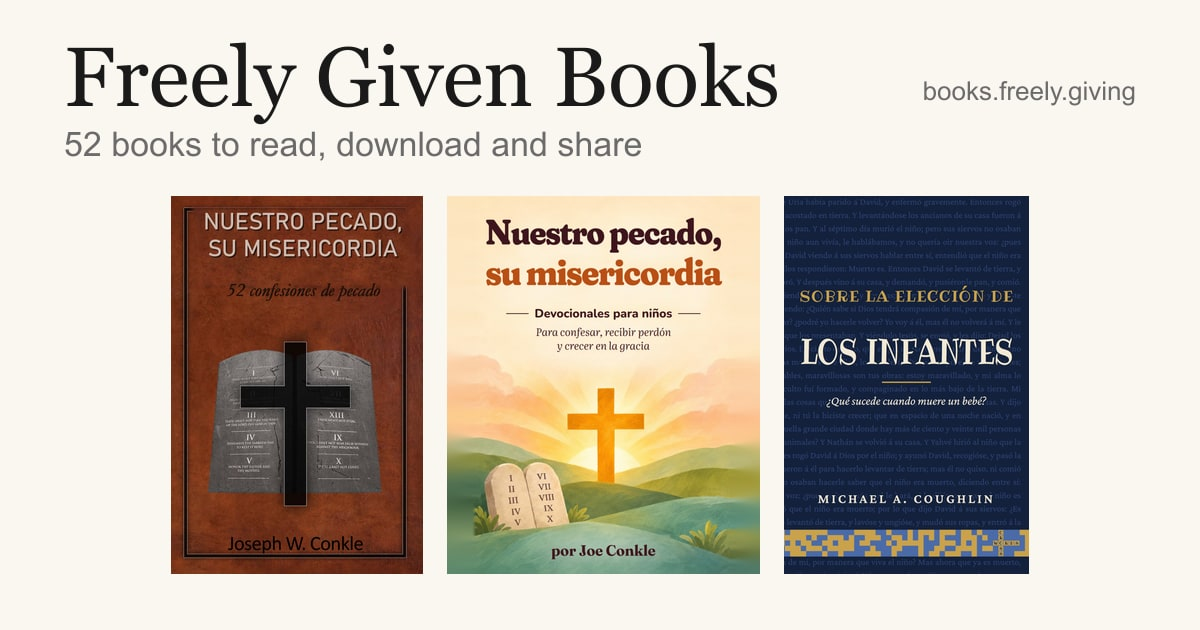
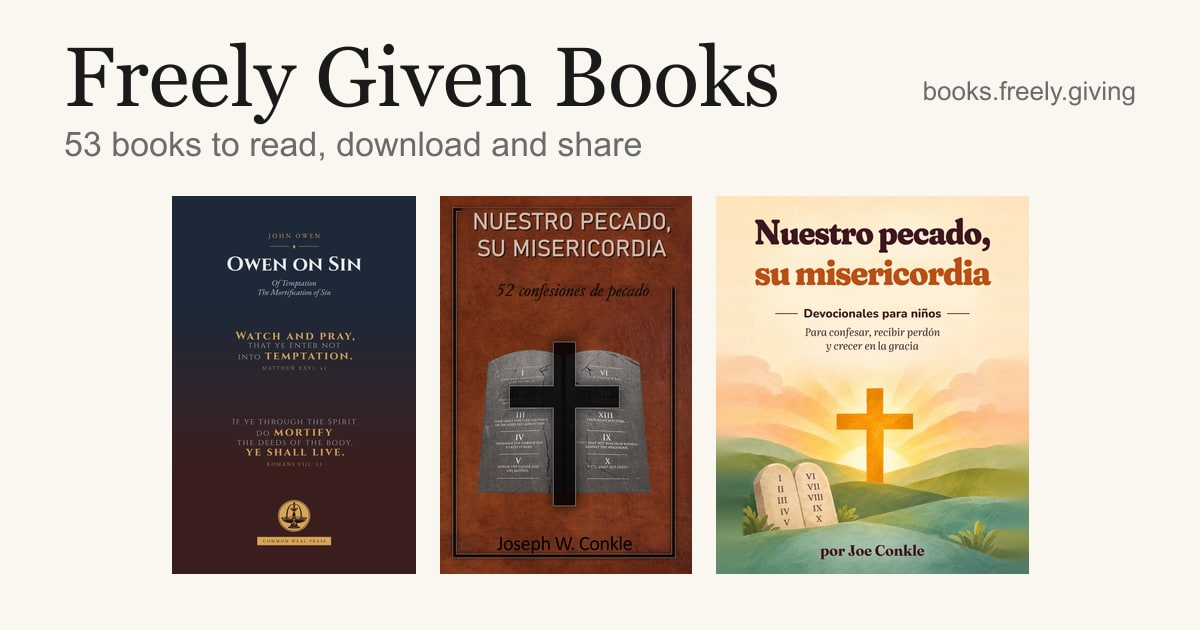
Add Owen on Sin; sync allows PDF-only editions and publishes /CourtneyHicks.md
Owen on Sin is Of Temptation and The Mortification of Sin in one paperback, so its
release has no EPUB or Read Online (each book has its own page). The sync now takes
EPUB and Read Online as optional, and every real sync writes its report for Courtney
to public/CourtneyHicks.md so his tools can read it at books.freely.giving/CourtneyHicks.md.

diff --git a/scripts/sync-freely-given.js b/scripts/sync-freely-given.js
@@ -137,8 +137,11 @@ function personSlug(author) {
  * in the report to send back, not just the console. */
 class EditorError extends Error {}
 
-/** Where the report to send back to the editor is written (untracked). */
+/** The sync report for the editor. A real sync publishes it on the site as /CourtneyHicks.md, where Courtney
+ * (or his tools) can read it at any time; a dry run writes only the local copy in _downloads (untracked). */
 const REPORT = join(ROOT, "_downloads/freely-given/for-courtney.md");
+const PUBLISHED = join(ROOT, "public/CourtneyHicks.md");
+const SITE_URL = "https://books.freely.giving";
 
 const isPdf = (b) => (b.subarray(0, 5).toString() === "%PDF-" ? null : "not a PDF file");
 const isZip = (b) => (b[0] === 0x50 && b[1] === 0x4b ? null : "not a valid EPUB (ZIP) file");
@@ -200,47 +203,61 @@ function parseSite(buf) {
   return site;
 }
 
-/** The file to send back to the editor, or null (and no stale file) when there is nothing to say. */
-function editorReport(tag, report, general = []) {
+/** The sync report for the editor, written every run (published on the site on a real sync). */
+function editorReport(tag, report, general = [], { publish = false } = {}) {
   const bad = report.filter((r) => r.problems.length);
   const warned = report.filter((r) => !r.problems.length && r.warnings.length);
   const meta = report.filter((r) => !r.problems.length && r.missingMeta?.length);
-  if (!general.length && !bad.length && !warned.length && !meta.length) {
-    if (existsSync(REPORT)) unlinkSync(REPORT);
-    return null;
-  }
+  const today = new Date().toLocaleDateString("en-CA");
   const head = (r) => `### ${r.slug} (${r.title ?? "no title"}${r.version ? `, ${r.version}` : ""})`;
+  const status = (r) =>
+    r.problems.length ? (r.isNew ? "not imported (see below)" : "not updated (see below); the site keeps its previous version")
+    : r.hidden ? "imported, hidden until the site owner finishes it"
+    : "on the site";
+  const live = report.filter((r) => !r.problems.length && !r.hidden).length;
   const L = [
-    `# books.freely.giving: sync report for release ${tag}`,
+    "# Sync report for Courtney Hicks",
     "",
-    "The site's sync script (`npm run sync:fgb`) read this release and found the items below.",
-    "Nothing needs to change on the site's side: fix these in the release, publish a new one,",
-    "and the next sync picks it up. Editions not listed here synced fine.",
+    `This file is for Courtney Hicks and his tools. ${SITE_URL} rewrites it each time it syncs a`,
+    "Freely Given Books release from https://github.com/freely-given-books/books. Read it after",
+    "publishing a release to see what the site took, and anything to fix in the next release.",
+    "Nothing in it needs a change on the site's side: fix things in the release and publish a new",
+    "one, and the next sync picks it up.",
+    "",
+    `- Last sync: ${today}`,
+    `- Release: ${tag}`,
+    `- Editions in the release: ${report.length}; on the site: ${live}; hidden: ${report.filter((r) => !r.problems.length && r.hidden).length}; ` +
+      `not imported or not updated: ${bad.length}`,
   ];
   if (general.length) L.push("", "## The release itself", "", ...general.map((g) => `- ${g}`));
-  if (bad.length) {
-    L.push("", "## Not imported (fix and re-release)", "");
-    for (const r of bad) L.push(head(r), ...r.problems.map((p) => `- ${p}`), "");
+  if (report.length) {
+    L.push("", "## Editions", "", "| Edition | Version | Status | Page |", "| --- | --- | --- | --- |",
+      ...report.map((r) => `| ${r.slug} | ${r.version ?? ""} | ${status(r)} | ${r.page && !r.problems.length && !r.hidden ? r.page : ""} |`));
   }
-  if (warned.length) {
-    L.push("", "## Imported, but please check", "");
-    for (const r of warned) L.push(head(r), ...r.warnings.map((p) => `- ${p}`), "");
-  }
+  L.push("", "## Not imported (fix and re-release)", "");
+  if (bad.length) for (const r of bad) L.push(head(r), ...r.problems.map((p) => `- ${p}`), "");
+  else L.push("None.");
+  L.push("", "## Imported, but please check", "");
+  if (warned.length) for (const r of warned) L.push(head(r), ...r.warnings.map((p) => `- ${p}`), "");
+  else L.push("None.");
   if (meta.length) {
-    L.push("", "## Requests that make the next sync hands-free", "",
+    L.push("", "## Optional: details that save the site owner work", "",
       "New books arrive hidden until the site owner fills in a year, description and tags by hand.",
       "If `site.json` carries them on each book (`\"year\": 1658`, a reader-facing `\"description\"`",
       "of a sentence or two, not the edition summary, and `\"tags\": [\"puritan\"]`) the sync uses",
       "them and nobody has to do it. Missing for:", "",
-      ...meta.map((r) => `- ${r.slug}: ${r.missingMeta.join(", ")}${r.noLulu ? "; lulu (only if a print edition exists)" : ""}`), "");
+      ...meta.map((r) => `- ${r.slug}: ${r.missingMeta.join(", ")}${r.noLulu ? "; lulu (only if a print edition exists)" : ""}`));
   }
   L.push("", "## What the sync needs, per edition", "",
-    "`slug`, `pages`, and `files` with `pdf`, `epub`, `cover` (the Lulu cover PDF), `front` (the front",
-    "cover PNG) and `reader`, plus `compare` for What's New?. Per book: `title`, `author`. Every file",
-    "named must be attached to the release and listed in `SHA256SUMS`.");
+    "`slug`, `pages`, and `files` with `pdf`, `cover` (the Lulu cover PDF) and `front` (the front cover",
+    "PNG). `epub` and `reader` (Read Online) are optional: an edition without them (a combined paperback,",
+    "say) goes up with only the buttons it has. `compare` gives What's New?. Per book: `title`,",
+    "`author`. Every file named must be attached to the release and listed in `SHA256SUMS`.");
+  const text = L.join("\n") + "\n";
   mkdirSync(dirname(REPORT), { recursive: true });
-  writeFileSync(REPORT, L.join("\n") + "\n");
-  return REPORT;
+  writeFileSync(REPORT, text);
+  if (publish) writeFileSync(PUBLISHED, text);
+  return { file: publish ? PUBLISHED : REPORT, hasIssues: Boolean(general.length || bad.length || warned.length) };
 }
 
 /** Back cover and spine, cut from the print-ready wrap cover by scripts/cut-cover.py
@@ -336,9 +353,14 @@ async function main() {
         return null;
       }
     };
-    const pdf = await need("pdf", isPdf), epub = await need("epub", isZip),
+    // PDF, print cover and front cover are required. EPUB and Read Online are optional (owner, 2026-11-17):
+    // an edition without them goes up with the buttons it has, and the report asks Courtney for the rest.
+    const pdf = await need("pdf", isPdf), epub = await need("epub", isZip, true),
       cover = await need("cover", isPdf), front = await need("front"),
-      reader = await need("reader", isHtml), compare = await need("compare", isHtml, true);
+      reader = await need("reader", isHtml, true), compare = await need("compare", isHtml, true);
+    // Not sent to Courtney: he leaves them out on purpose (e.g. a two-in-one paperback whose books have their own pages).
+    if (!f.epub) r.kept.push("no EPUB in this release, so no eBook button");
+    if (!f.reader) r.kept.push("no Read Online page in this release, so no Read Online button");
     let jpg = null;
     if (front) {
       try {
@@ -354,11 +376,13 @@ async function main() {
 
     const out = {};
     out[`${slug}.pdf`] = pdf;
-    out[`${slug}.epub`] = epub;
+    if (epub) out[`${slug}.epub`] = epub;
     out["print-ready.zip"] = storedZip([{ name: f.pdf, data: pdf }, { name: f.cover, data: cover }]);
-    const names = { [f.pdf]: r2(`${slug}.pdf`), [f.epub]: r2(`${slug}.epub`), [f.reader]: `${slug}.html` };
+    const names = { [f.pdf]: r2(`${slug}.pdf`) };
+    if (epub) names[f.epub] = r2(`${slug}.epub`);
+    if (reader) names[f.reader] = `${slug}.html`;
     if (compare) names[f.compare] = `${slug}-whats-new.html`;
-    out[`${slug}.html`] = Buffer.from(relink(reader.toString(), names));
+    if (reader) out[`${slug}.html`] = Buffer.from(relink(reader.toString(), names));
     if (compare) out[`${slug}-whats-new.html`] = Buffer.from(relink(compare.toString(), names));
     out["cover.jpg"] = jpg;
     if (cut.back) { out["back-cover.jpg"] = cut.back; out["spine.jpg"] = cut.spine; }
@@ -422,10 +446,10 @@ async function main() {
     }
 
     const want = {
-      htmlBook: button("htmlBook", "Read Online", "Read", page(`${slug}.html`)),
+      htmlBook: reader && button("htmlBook", "Read Online", "Read", page(`${slug}.html`)),
       whatsNew: compare && button("whatsNew", "What's New?", "Compare", page(`${slug}-whats-new.html`)),
       printBook: ed.lulu && button("printBook", "Book", "Lulu", ed.lulu),
-      eBook: button("eBook", "eBook", "Download", r2(`${slug}.epub`)),
+      eBook: epub && button("eBook", "eBook", "Download", r2(`${slug}.epub`)),
       pdfBook: button("pdfBook", "PDF", "Download", r2(`${slug}.pdf`)),
       printReady: button("printReady", "Print Ready", "Download", r2("print-ready.zip")),
     };
@@ -442,6 +466,9 @@ async function main() {
       kept.push(`Read Online stays at ${url(had("htmlBook"))} (<slug>.html is staged, not linked)`);
     }
     if (had("printBook")) want.printBook = had("printBook");
+    // A release missing a file the site already offers keeps the site's existing button.
+    if (!epub && had("eBook")) want.eBook = had("eBook");
+    if (!reader && had("htmlBook")) want.htmlBook = had("htmlBook");
     b.set("mediaTypes", doc.createNode([...BUTTONS.map((t) => want[t]).filter(Boolean), ...others]));
     const yamlOut = doc.toString({ lineWidth: 0 });
     const yamlChanged = isNew || yamlOut !== readFileSync(yamlPath, "utf8");
@@ -456,7 +483,11 @@ async function main() {
       };
     }
     if (toR2.length) upload.push(slug);
+    const creditList = b.get("credits")?.toJSON?.() ?? [];
+    const urlPerson = creditList.find((c) => c.role === "author" && c.person)?.person ?? creditList.find((c) => c.prepared && c.person)?.person;
     Object.assign(r, {
+      hidden: b.get("hidden") === true,
+      page: urlPerson ? `${SITE_URL}/books/${urlPerson}/${slug}/` : "",
       files: changedForReal, yamlChanged, others: others.map((m) => m.type), kept,
       line: isNew
         ? `NEW (hidden${r.missingMeta.length ? `; still needs ${r.missingMeta.join(", ")}` : ""}; check the author page, then remove hidden)`
@@ -497,17 +528,19 @@ async function main() {
     ? `\nThen upload the changed files to R2 (the owner):\n  npm run upload -- ${upload.join(" ")} --force`
     : "\nNothing to upload to R2.");
 
-  const hasIssues = report.some((r) => r.problems.length || r.warnings.length);
-  const file = editorReport(site.release, report);
-  if (file) console.log(`\n${hasIssues ? "FILE TO SEND BACK TO COURTNEY (issues found)" : "Optional note for Courtney"}: ${file}`);
+  const out = editorReport(site.release, report, [], { publish: !dryRun });
+  console.log(dryRun
+    ? `\nReport for Courtney (dry run, local copy only): ${out.file}`
+    : `\nReport for Courtney written to ${out.file}; it is live at ${SITE_URL}/CourtneyHicks.md once pushed.` +
+      (out.hasIssues ? " It lists things for him to fix." : ""));
   if (report.some((r) => r.problems.length)) process.exitCode = 1;
 }
 
 main().catch((e) => {
   console.error(`sync: ${e.message}`);
   if (e instanceof EditorError) {
-    const file = editorReport(e.release ?? tagArg ?? "latest", [], [e.message]);
-    if (file) console.error(`FILE TO SEND BACK TO COURTNEY: ${file}`);
+    const out = editorReport(e.release ?? tagArg ?? "latest", [], [e.message], { publish: !dryRun });
+    console.error(`Report for Courtney: ${out.file}${dryRun ? "" : ` (live at ${SITE_URL}/CourtneyHicks.md once pushed)`}`);
   }
   process.exit(1);
 });

diff --git a/public/CourtneyHicks.md b/public/CourtneyHicks.md
@@ -1,0 +1,52 @@
+# Sync report for Courtney Hicks
+
+This file is for Courtney Hicks and his tools. https://books.freely.giving rewrites it each time it syncs a
+Freely Given Books release from https://github.com/freely-given-books/books. Read it after
+publishing a release to see what the site took, and anything to fix in the next release.
+Nothing in it needs a change on the site's side: fix things in the release and publish a new
+one, and the next sync picks it up.
+
+- Last sync: 2026-11-18
+- Release: 2026.11.10
+- Editions in the release: 21; on the site: 21; hidden: 0; not imported or not updated: 0
+
+## Editions
+
+| Edition | Version | Status | Page |
+| --- | --- | --- | --- |
+| the-1689-baptist-confession-of-faith | v1 | on the site | https://books.freely.giving/books/courtney-hicks/the-1689-baptist-confession-of-faith/ |
+| the-anatomy-of-simon-magus | v7 | on the site | https://books.freely.giving/books/anonymous/the-anatomy-of-simon-magus/ |
+| all-of-grace | v16 | on the site | https://books.freely.giving/books/charles-spurgeon/all-of-grace/ |
+| grace-abounding | v2 | on the site | https://books.freely.giving/books/john-bunyan/grace-abounding/ |
+| the-pilgrims-progress | v14 | on the site | https://books.freely.giving/books/john-bunyan/the-pilgrims-progress/ |
+| indwelling-sin | v1 | on the site | https://books.freely.giving/books/john-owen/indwelling-sin/ |
+| of-temptation | v2 | on the site | https://books.freely.giving/books/john-owen/of-temptation/ |
+| owen-on-sin | v1 | on the site | https://books.freely.giving/books/john-owen/owen-on-sin/ |
+| the-death-of-death | v1 | on the site | https://books.freely.giving/books/john-owen/the-death-of-death/ |
+| the-mortification-of-sin | v2 | on the site | https://books.freely.giving/books/john-owen/the-mortification-of-sin/ |
+| sinners-in-the-hands-of-an-angry-god | v9 | on the site | https://books.freely.giving/books/jonathan-edwards/sinners-in-the-hands-of-an-angry-god/ |
+| the-glorious-feast-of-the-gospel | v14 | on the site | https://books.freely.giving/books/richard-sibbes/the-glorious-feast-of-the-gospel/ |
+| the-crook-in-the-lot | v1 | on the site | https://books.freely.giving/books/thomas-boston/the-crook-in-the-lot/ |
+| precious-remedies-against-satans-devices | v2 | on the site | https://books.freely.giving/books/thomas-brooks/precious-remedies-against-satans-devices/ |
+| the-secret-key-of-heaven | v7.1 | on the site | https://books.freely.giving/books/thomas-brooks/the-secret-key-of-heaven/ |
+| a-divine-cordial | v2 | on the site | https://books.freely.giving/books/thomas-watson/a-divine-cordial/ |
+| domestical-duties-volume-1 | v2 | on the site | https://books.freely.giving/books/william-gouge/domestical-duties-volume-1/ |
+| domestical-duties-volume-2 | v2 | on the site | https://books.freely.giving/books/william-gouge/domestical-duties-volume-2/ |
+| domestical-duties-volume-3 | v2 | on the site | https://books.freely.giving/books/william-gouge/domestical-duties-volume-3/ |
+| domestical-duties-volume-4 | v2 | on the site | https://books.freely.giving/books/william-gouge/domestical-duties-volume-4/ |
+| christian-economy | v3.2 | on the site | https://books.freely.giving/books/william-perkins/christian-economy/ |
+
+## Not imported (fix and re-release)
+
+None.
+
+## Imported, but please check
+
+None.
+
+## What the sync needs, per edition
+
+`slug`, `pages`, and `files` with `pdf`, `cover` (the Lulu cover PDF) and `front` (the front cover
+PNG). `epub` and `reader` (Read Online) are optional: an edition without them (a combined paperback,
+say) goes up with only the buttons it has. `compare` gives What's New?. Per book: `title`,
+`author`. Every file named must be attached to the release and listed in `SHA256SUMS`.
